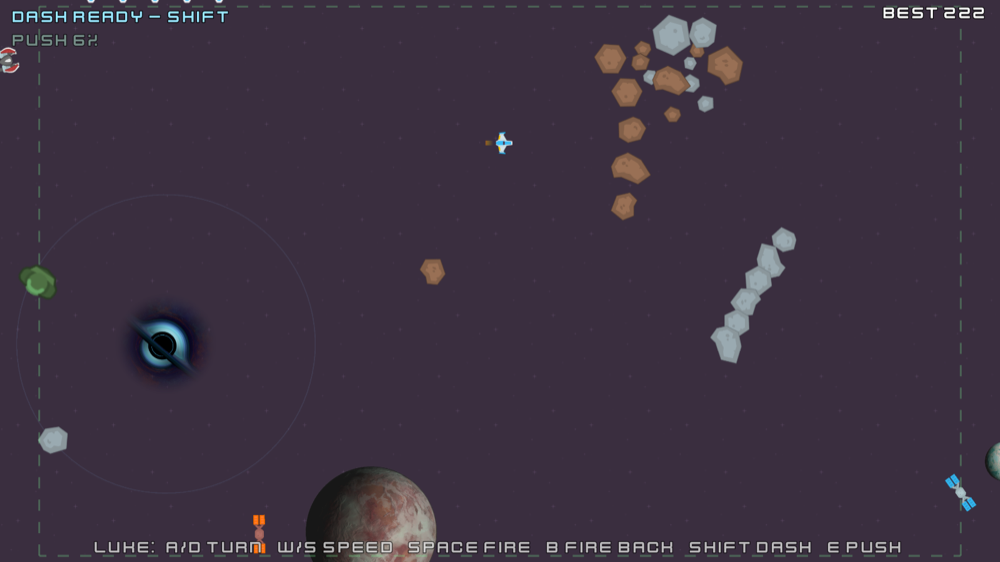
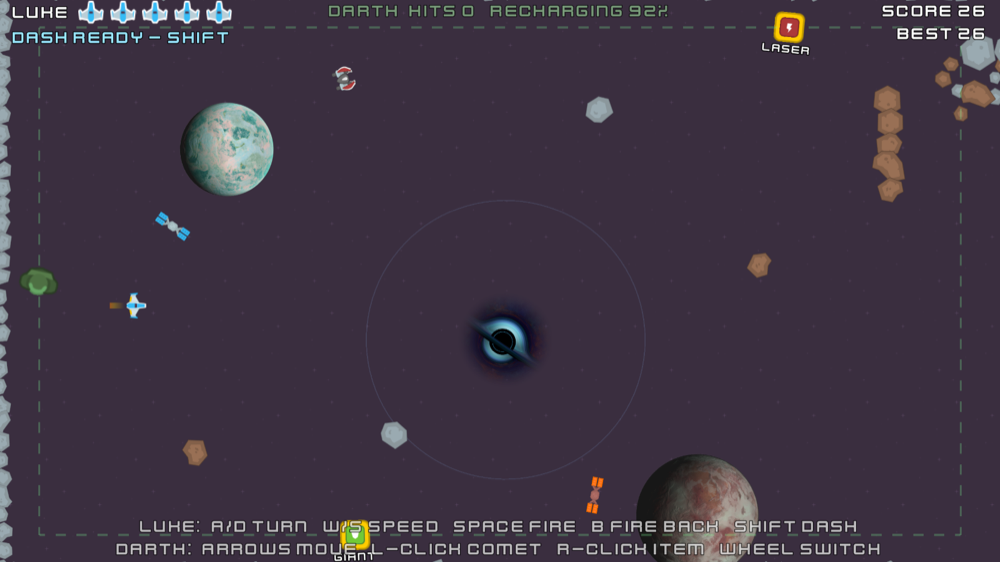
Remove push; bigger Luke; crates show their item; more moving asteroids
- Push skill (E) removed completely
- Luke's ship and hitbox are 25% bigger (sprite 0.6 -> 0.75, radius
  20 -> 25)
- Each crate decides its item when it appears and shows the item's icon
  and name; collecting it gives exactly that item
- Moving asteroids: 5 in the opening (was 2), 3 per stretch early on
  rising to 7 (was 1 to 4)
- Control help fades out after 15 s so it doesn't cover Darth's track

diff --git a/README.md b/README.md
@@ -26,9 +26,6 @@ Two players share one keyboard and mouse: **Luke** flies the starship and
   can't lose a life, so it can also punch through a laser, comet or bullet.
   Recharges in 10 s; shown under Luke's lives. Rocks the dash passes
   through get shoved out of the way.
-- **E:** push. A shockwave in a cone in front of the ship (about 450 px,
-  70 degrees wide) knocks asteroids loose and away and nudges comets.
-  Recharges in 6 s.
 
 **Darth, the alien astronaut**
 - **Arrow keys:** run along the dashed rectangle track around the edge of the
@@ -36,8 +33,8 @@ Two players share one keyboard and mouse: **Luke** flies the starship and
   the next edge, or keep pressing the way you were going, to go round it.
 - **Left click:** throw a green comet toward the mouse (recharges for 4 s).
 - **Crates:** item crates appear at random spots on Darth's track every 6-8 s
-  (at most 2 at once, each lasts 8 s and blinks before it vanishes). Run over
-  one to collect a random item.
+  (at most 2 at once, each lasts 8 s and blinks before it vanishes). Each crate
+  shows the icon and name of the item inside; run over it to collect that item.
 - **Right click:** use the selected item. **Mouse wheel:** switch item.
 
 **Both:** Enter / R restarts after Luke's ship is lost. F11 switches between
@@ -65,7 +62,8 @@ Darth's HITS count comet and laser hits on Luke.
   still until something knocks them, then drift and bump into each other
   before slowing to a stop. Luke's lasers break small ones in 1 hit and big
   ones in 3. The rocks along the top and bottom edge are unbreakable.
-- **Moving asteroids** drift around and bounce off everything.
+- **Moving asteroids** drift around and bounce off everything (5 in the
+  opening, 3 per stretch early on, up to 7 later).
 - **Comets** fly across the screen (at most 2 random ones at once).
 - **Black holes** bend comets and the hunter's bullets (not Luke's lasers or
   Darth's beam) and swallow them at the core.
